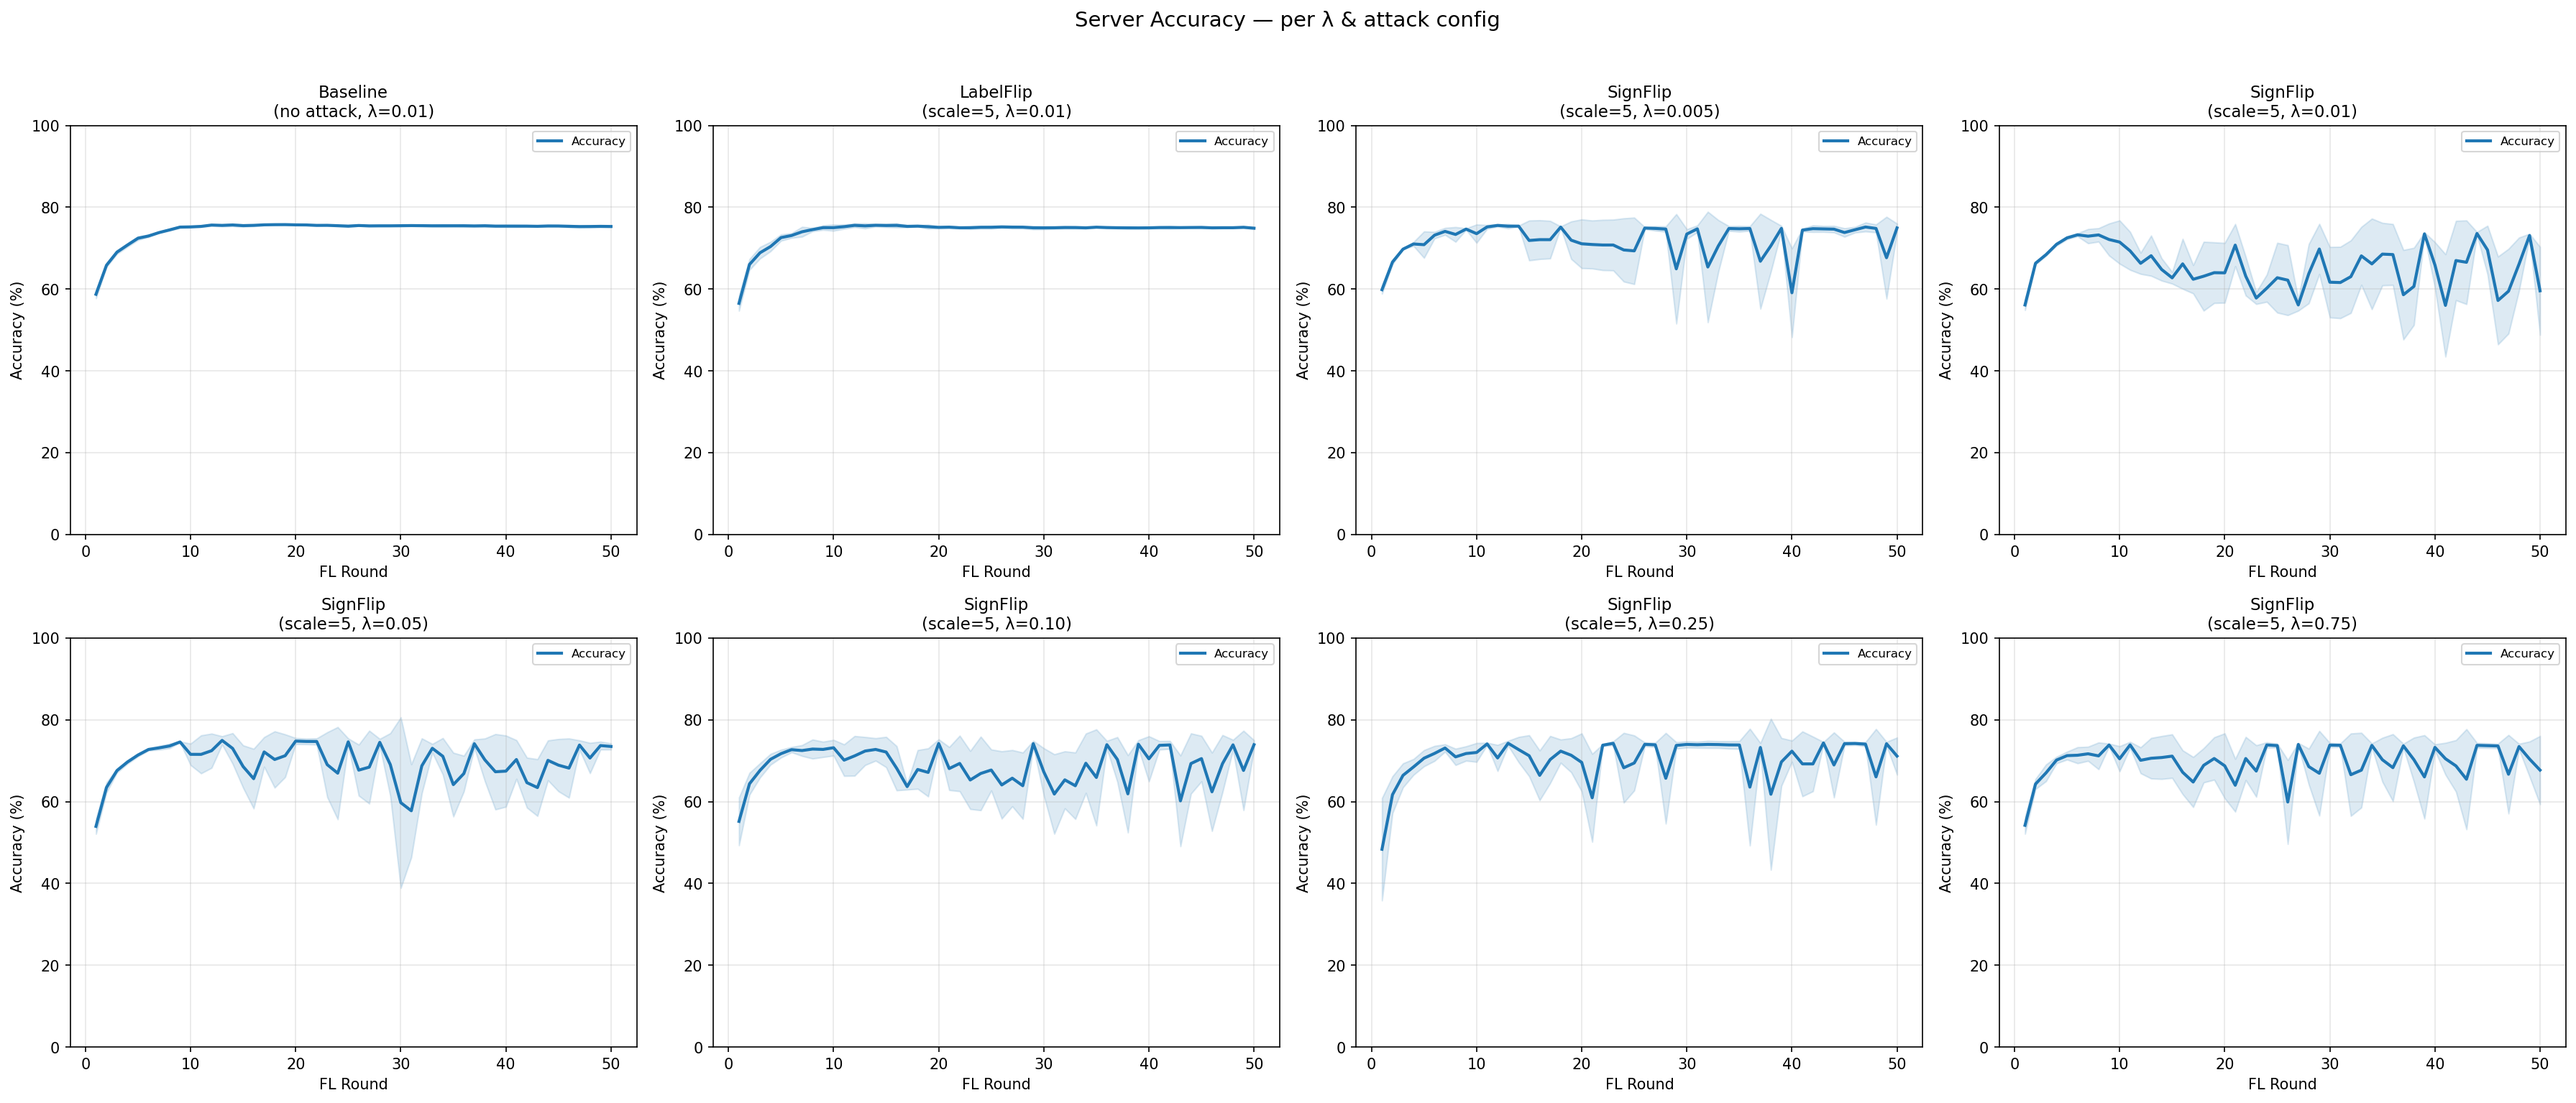
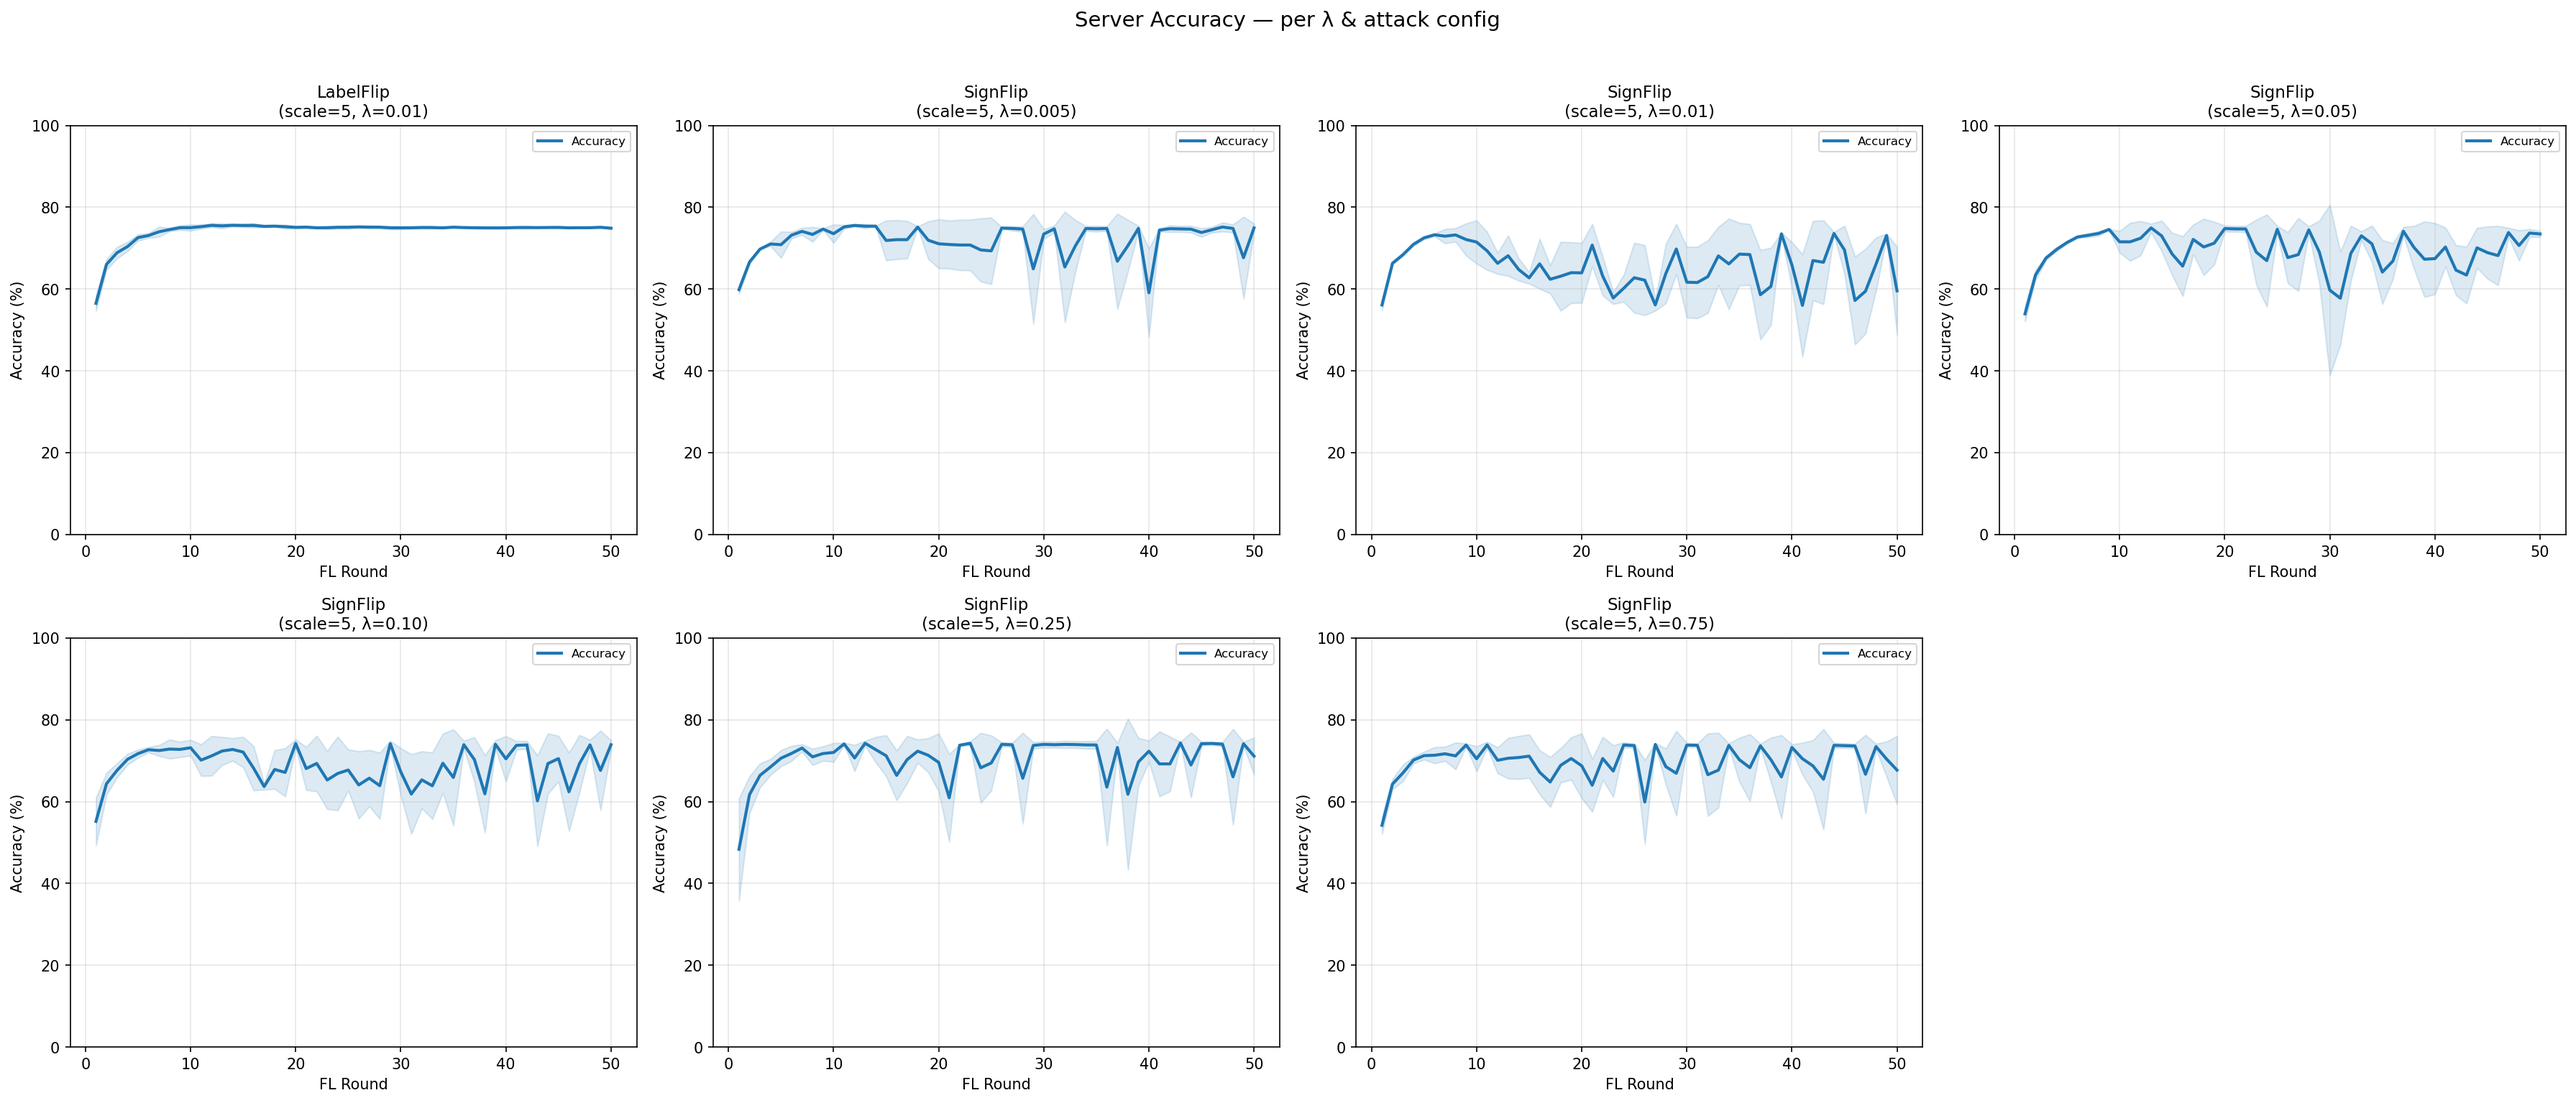
Remove baseline column from defense evaluation plots

diff --git a/utility scripts/plot_evaluation.py b/utility scripts/plot_evaluation.py
@@ -24,7 +24,6 @@ PLOTS_DIR.mkdir(parents=True, exist_ok=True)
 
 # Match the 8 configs from run_evaluation.sh + run_lambda_extra.sh
 CONFIGS = [
-    {"label": "Baseline\n(no attack, λ=0.01)", "attack": "none", "lam": 0.01, "attacker_frac": 0.0},
     {"label": "LabelFlip\n(scale=5, λ=0.01)", "attack": "label_flip", "lam": 0.01, "attacker_frac": 0.1},
     {"label": "SignFlip\n(scale=5, λ=0.005)", "attack": "sign_flip", "lam": 0.005, "attacker_frac": 0.1},
     {"label": "SignFlip\n(scale=5, λ=0.01)", "attack": "sign_flip", "lam": 0.01, "attacker_frac": 0.1},
@@ -149,11 +148,19 @@ def main():
     print(f"Found {len(runs)} runs in registry")
 
     n_configs = len(CONFIGS)
-    fig_ber, axes_ber = plt.subplots(2, 4, figsize=(24, 10))
+    n_cols = 4
+    n_rows = (n_configs + n_cols - 1) // n_cols
+    fig_ber, axes_ber = plt.subplots(n_rows, n_cols, figsize=(6 * n_cols, 5 * n_rows))
     axes_ber = axes_ber.flatten()
 
-    fig_acc, axes_acc = plt.subplots(2, 4, figsize=(24, 10))
+    fig_acc, axes_acc = plt.subplots(n_rows, n_cols, figsize=(6 * n_cols, 5 * n_rows))
     axes_acc = axes_acc.flatten()
+
+    # Hide unused subplots
+    for ax in axes_ber[n_configs:]:
+        ax.set_visible(False)
+    for ax in axes_acc[n_configs:]:
+        ax.set_visible(False)
 
     summary = []
 
@@ -294,7 +301,6 @@ def main():
 
     # Short labels for x-axis readability
     short_labels = [
-        "Baseline\n(λ=0.01)",
         "LabelFlip\nsf=5, λ=0.01",
         "SignFlip\nsf=5, λ=0.005",
         "SignFlip\nsf=5, λ=0.01",
@@ -313,7 +319,7 @@ def main():
     colors = ["C0" if np.isfinite(d) and d > 0 else "C3" for d in dprimes]
     axes_sum[0].bar(x, [d if np.isfinite(d) else 0 for d in dprimes], color=colors)
     axes_sum[0].set_ylabel("d'-score")
-    axes_sum[0].set_title("Watermark Sensitivity (d')")
+    axes_sum[0].set_title("d'-score")
     axes_sum[0].set_xticks(x)
     axes_sum[0].set_xticklabels(short_labels, fontsize=7, rotation=30, ha="right")
     axes_sum[0].axhline(y=0, color="gray", linestyle="-", alpha=0.3)
@@ -327,8 +333,6 @@ def main():
     axes_sum[1].set_xticks(x)
     axes_sum[1].set_xticklabels(short_labels, fontsize=7, rotation=30, ha="right")
     axes_sum[1].set_ylim(0, 1)
-    axes_sum[1].axhline(y=1.0, color="gray", linestyle="--", alpha=0.5, label="ideal")
-    axes_sum[1].legend()
     axes_sum[1].grid(True, alpha=0.3, axis="y")
 
     # Defense accuracy
